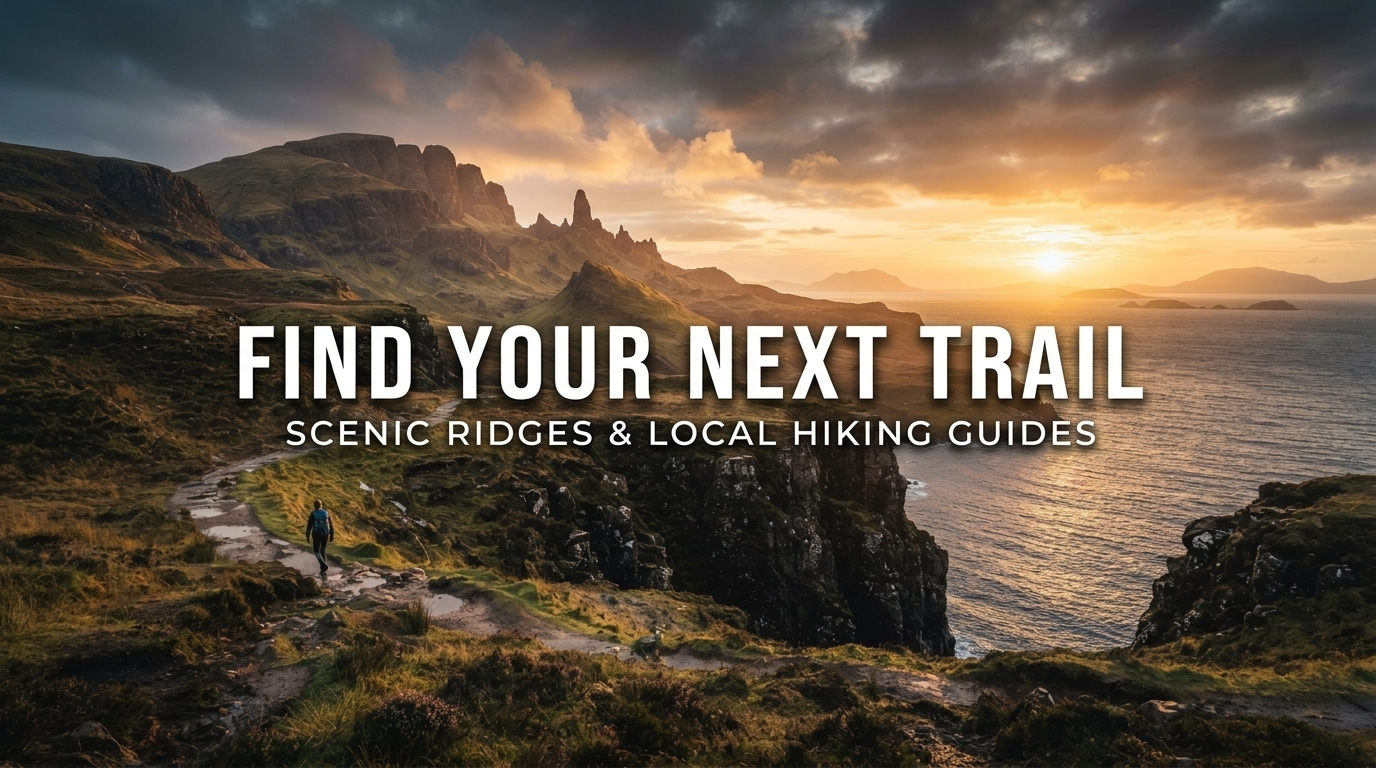
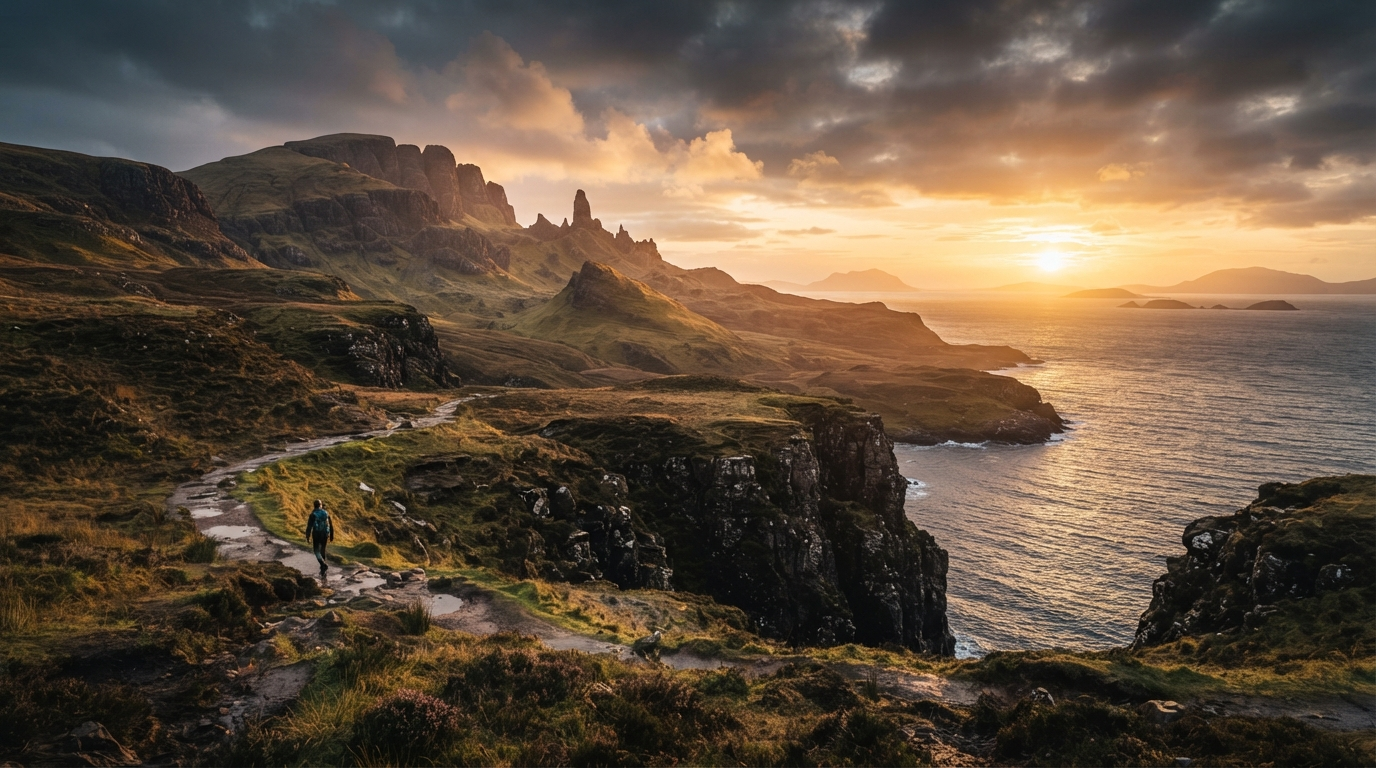
Setup and images again

diff --git a/w7/index.html b/w7/index.html
@@ -12,5 +12,9 @@
         <h2>Hiking</h2>
     </section>
 
+    <article class="attendance-card">
+        <h2></h2>
+    </article>
+
 </body>
 </html>
